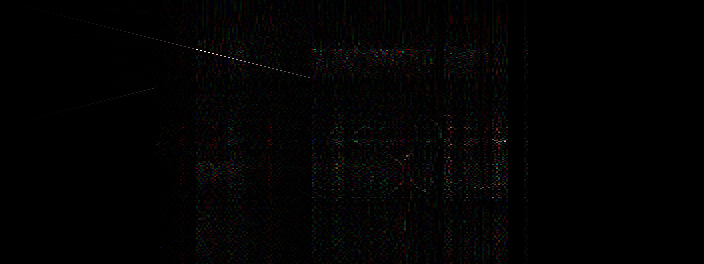
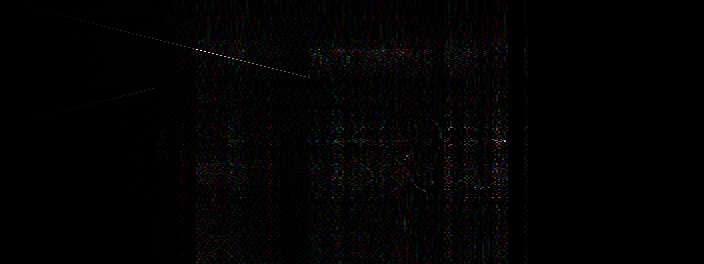
Inverse SVD fixed

diff --git a/Codes/Embedding_Algo.py b/Codes/Embedding_Algo.py
@@ -71,10 +71,13 @@ def ApplySVD(mat):
     print("-------------- Applying SVD on the HH sub bands successful --------------")
     return U,S,VT
 
-def InverseSVD(u,s,vt,A):
-    Sigma = zeros((A.shape[0], A.shape[1]))
-    Sigma[:A.shape[1], :A.shape[1]] = diag(s)
-    B = u.dot(Sigma.dot(vt))
+def InverseSVD(u,s,vt):
+    m,_ = u.shape
+    n,_ = vt.shape
+    Sigma = np.zeros((m,n))
+    for i in range(min(m,n)):
+        Sigma[i,i] = s[i]
+    B = np.dot(u,np.dot(Sigma,vt))
     print("-------------- Inverse SVD applied successfully --------------")
     return B
 

diff --git a/Codes/Main.py b/Codes/Main.py
@@ -64,9 +64,9 @@ if __name__ == '__main__':
 
     #Reconstructing three SVD matrixes for R,G and B channels separately
     
-    d1 = ea.InverseSVD(u7,s7,vt7,a2)
-    d2 = ea.InverseSVD(u8,s8,vt8,b2)
-    d3 = ea.InverseSVD(u9,s9,vt9,c2)
+    d1 = ea.InverseSVD(u7,s7,vt7)
+    d2 = ea.InverseSVD(u8,s8,vt8)
+    d3 = ea.InverseSVD(u9,s9,vt9)
 
     print("-------------- Inverse SVDs calculcated on the RGB channels --------------")
 
